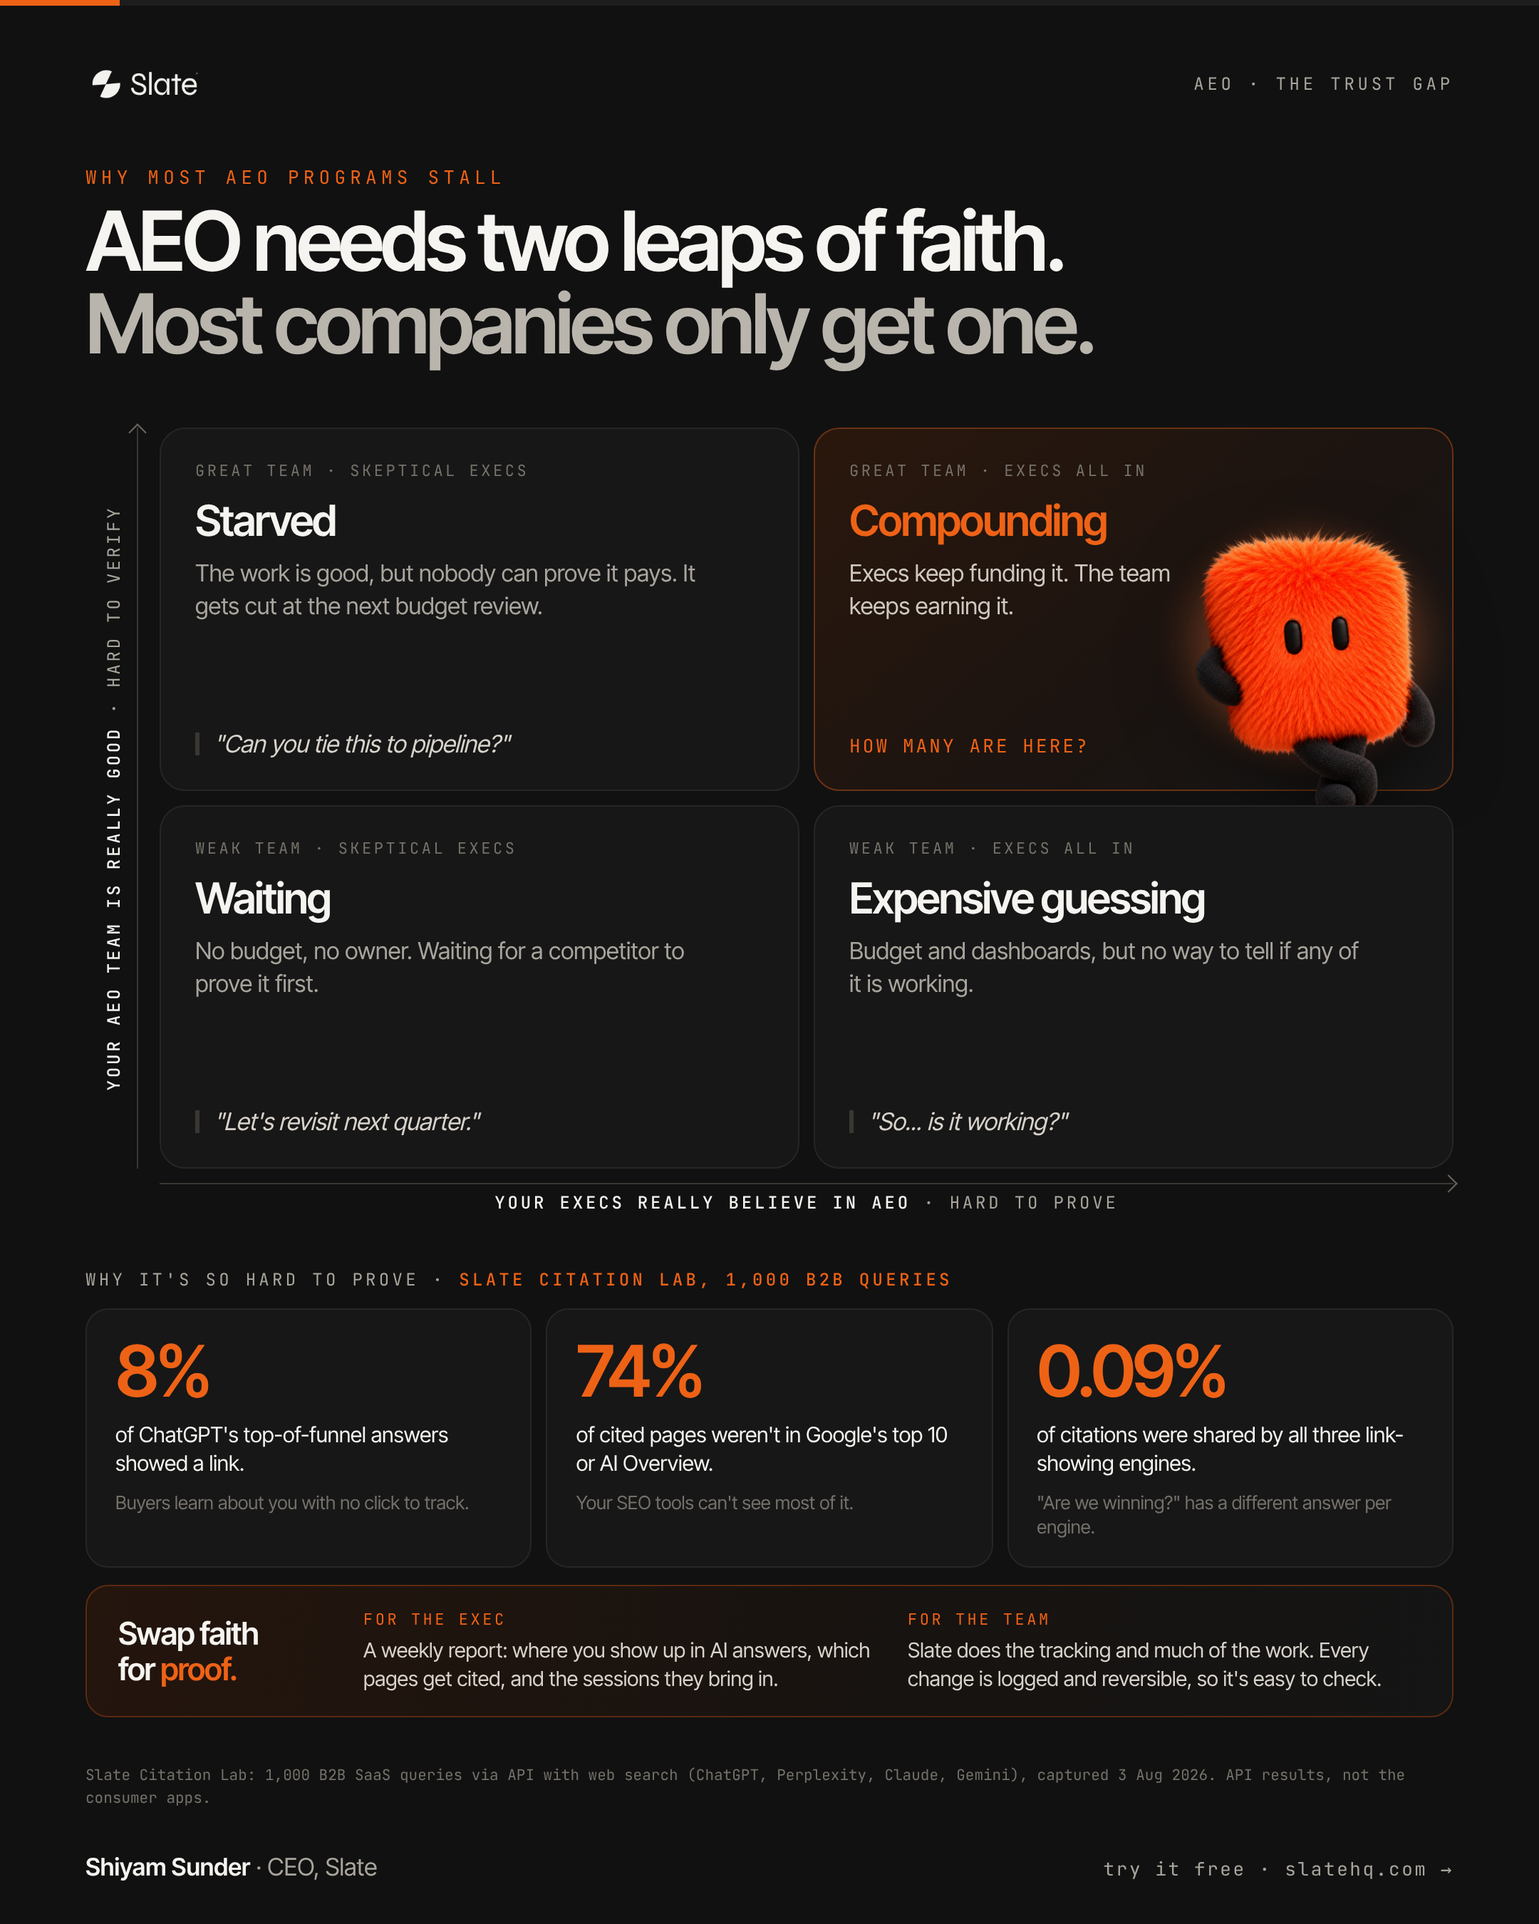
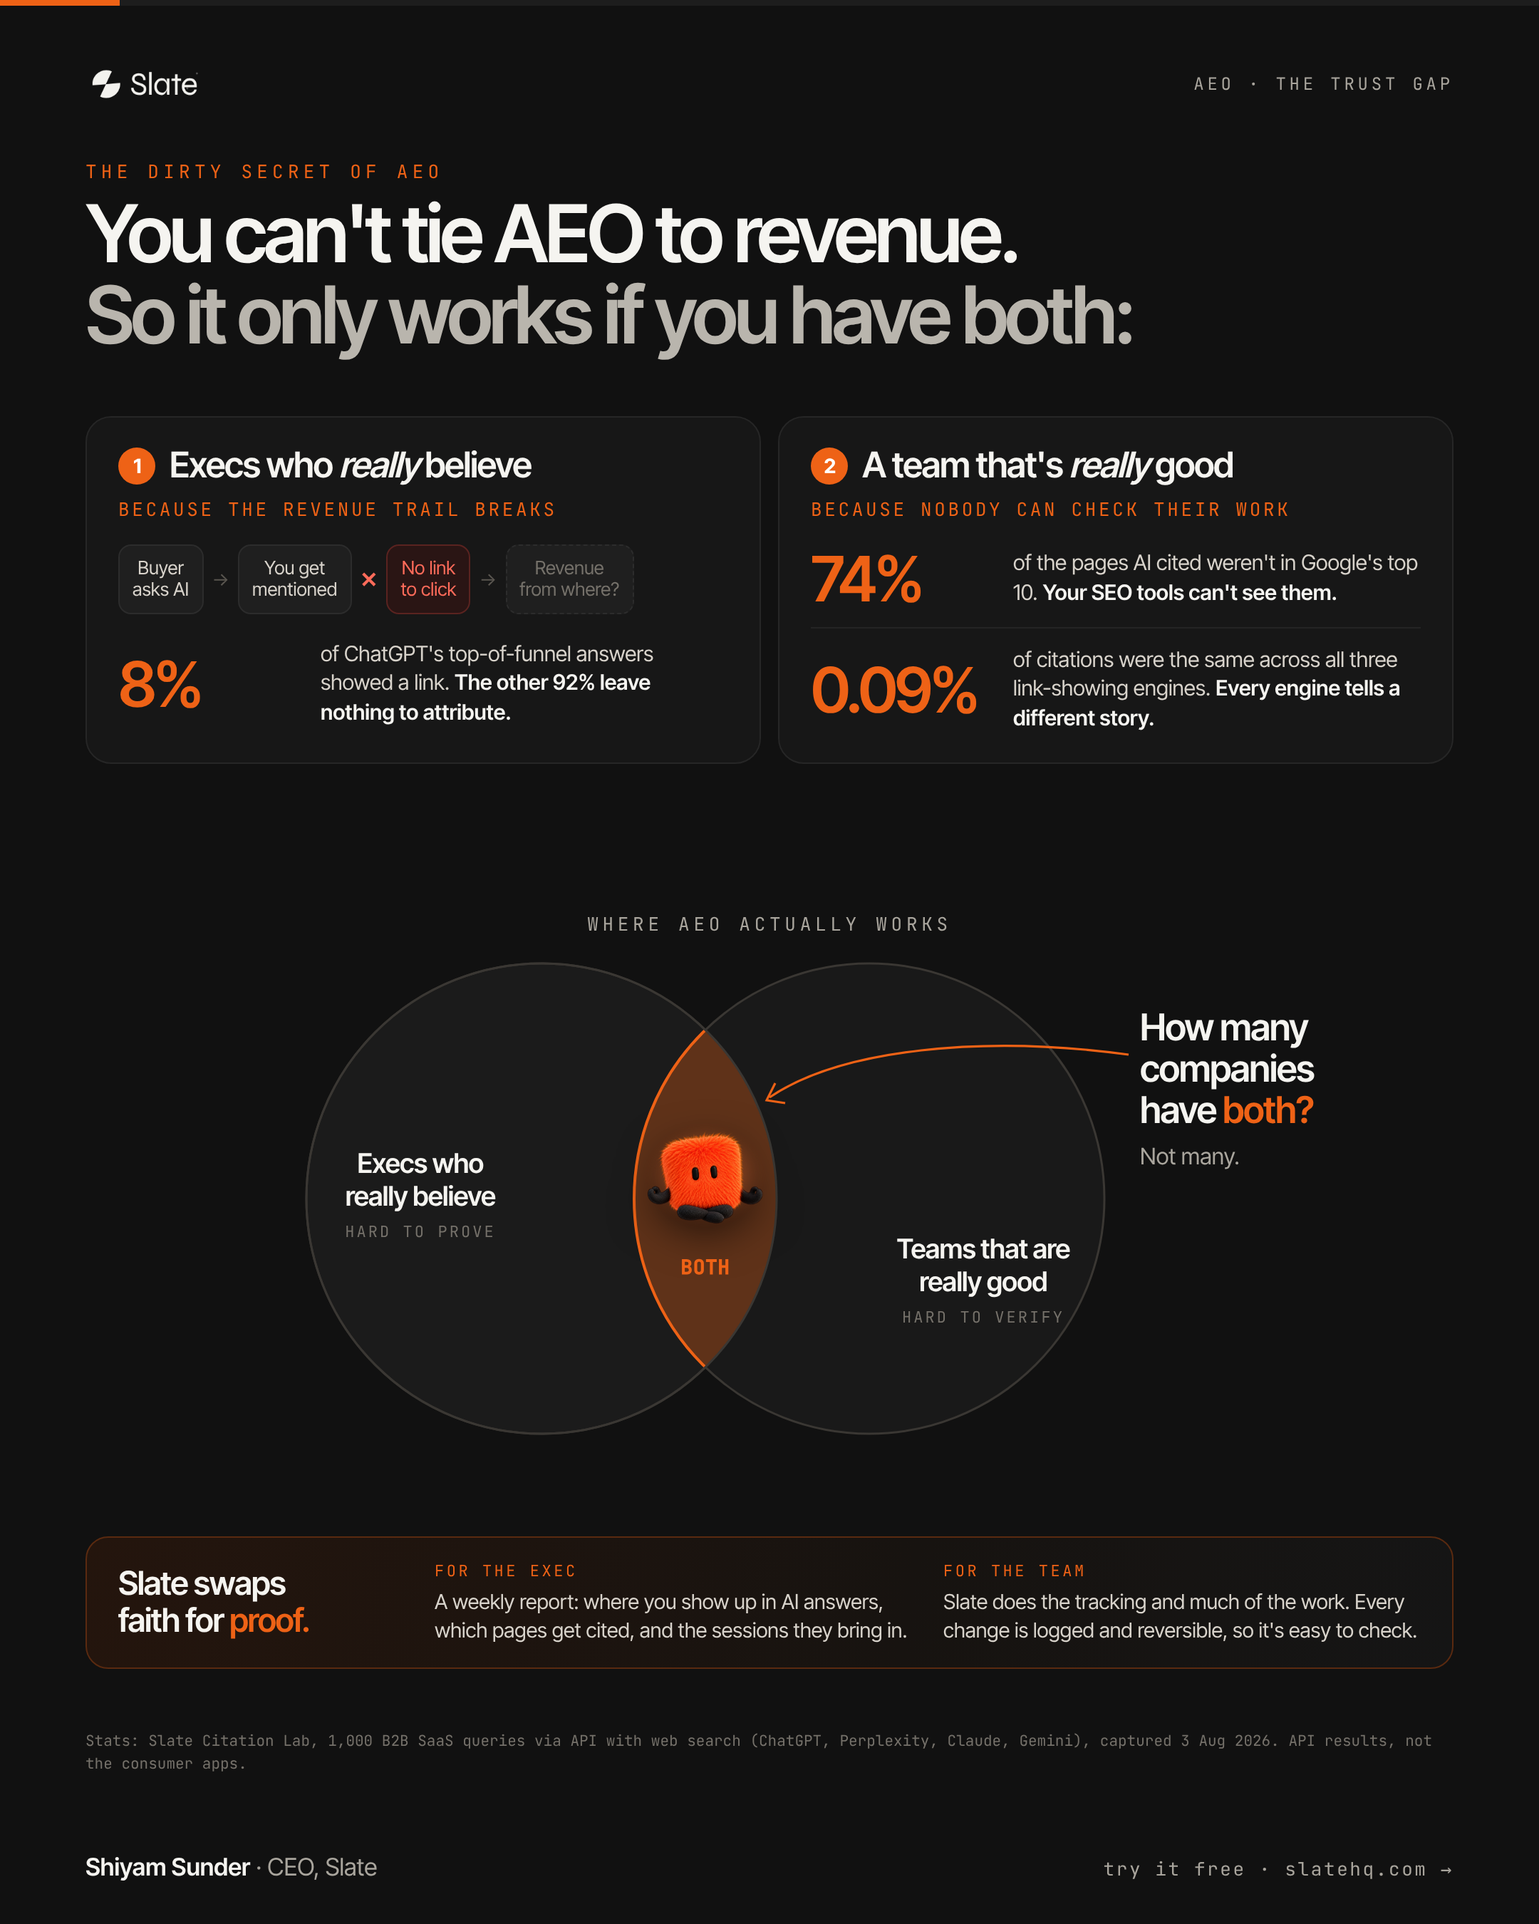
Redesign AEO trust-gap image to follow the post's argument
Replace the abstract 2x2 with a top-to-bottom story: can't tie AEO to
revenue, the two things you need (each backed by a Citation Lab stat),
a Venn of exec belief and team strength with the mascot in the small
overlap, and how Slate swaps faith for proof.

Claude-Session: https://claude.ai/code/session_017uCf1pmV8y2GsznBw541N3

diff --git a/aeo-trust/aeo.html b/aeo-trust/aeo.html
@@ -5,7 +5,7 @@
 <title>AEO Trust Gap</title>
 <link href="https://fonts.googleapis.com/css2?family=Inter+Tight:wght@400;500;600;700&family=JetBrains+Mono:wght@400;500&display=swap" rel="stylesheet">
 <style>
-  :root { --bg:#111111; --card:#171717; --line:#262626; --ink:#f5f4f0; --mute:#a9a59d; --dim:#75716a; --accent:#ee6216; }
+  :root { --bg:#111111; --card:#171717; --line:#262626; --ink:#f5f4f0; --mute:#a9a59d; --dim:#75716a; --accent:#ee6216; --red:#ff6b5a; }
   * { box-sizing: border-box; margin: 0; padding: 0; }
   html, body { width: 1080px; height: 1350px; background: var(--bg); }
   body { font-family: 'Inter Tight', system-ui, sans-serif; color: var(--ink); position: relative; overflow: hidden; }
@@ -17,51 +17,51 @@
   header img { height: 30px; }
   header .tag { font-size: 12px; letter-spacing: .2em; color: var(--mute); }
 
-  .eyebrow { position: absolute; top: 116px; left: 60px; font-size: 13px; letter-spacing: .24em; color: var(--accent); }
-  h1 { position: absolute; top: 140px; left: 60px; right: 60px; font-size: 58px; line-height: 1; font-weight: 600; letter-spacing: -0.045em; }
+  .eyebrow { position: absolute; top: 112px; left: 60px; font-size: 13px; letter-spacing: .24em; color: var(--accent); }
+  h1 { position: absolute; top: 136px; left: 60px; right: 60px; font-size: 56px; line-height: 1.02; font-weight: 600; letter-spacing: -0.045em; }
   h1 .grey { color: #b9b5ad; }
 
-  /* matrix */
-  .matrix { position: absolute; left: 112px; top: 300px; width: 908px; height: 520px; display: grid; grid-template-columns: 1fr 1fr; grid-template-rows: 1fr 1fr; gap: 10px; }
-  .q { background: var(--card); border: 1px solid var(--line); border-radius: 18px; padding: 22px 24px; position: relative; overflow: hidden; }
-  .q .k { font-size: 11px; letter-spacing: .16em; color: var(--dim); }
-  .q h3 { margin-top: 10px; font-size: 30px; font-weight: 600; letter-spacing: -0.035em; }
-  .q p { margin-top: 8px; font-size: 16.5px; line-height: 1.38; color: var(--mute); max-width: 360px; }
-  .q.win { background: linear-gradient(140deg, #2a170c 0%, #1b1411 60%, #171717 100%); border-color: #6a3214; overflow: visible; }
-  .q.win h3 { color: var(--accent); }
-  .q.win p { max-width: 230px; color: #cfc9c0; }
-  .q.win .ask { position: absolute; left: 24px; bottom: 22px; font-size: 13px; letter-spacing: .12em; color: var(--accent); }
-  .q .say { position: absolute; left: 24px; bottom: 22px; font-size: 17px; font-style: italic; color: #d8d3cb; letter-spacing: -0.01em; }
-  .q .say::before { content: ''; display: inline-block; width: 3px; height: 16px; background: #3a3733; margin-right: 10px; vertical-align: -2px; }
-  .lean { position: absolute; right: -6px; bottom: -14px; height: 214px; filter: drop-shadow(0 14px 22px rgba(0,0,0,.55)); }
+  /* two requirements */
+  .need { position: absolute; top: 292px; left: 60px; right: 60px; display: grid; grid-template-columns: 1fr 1fr; gap: 12px; }
+  .card { background: var(--card); border: 1px solid var(--line); border-radius: 18px; padding: 20px 22px 20px; }
+  .card .num { display: inline-flex; width: 26px; height: 26px; border-radius: 50%; background: var(--accent); color: #fff; font-size: 14px; font-weight: 700; align-items: center; justify-content: center; margin-right: 10px; vertical-align: 3px; }
+  .card h3 { font-size: 25px; font-weight: 600; letter-spacing: -0.03em; line-height: 1.1; }
+  .card h3 em { font-style: italic; }
+  .card .why { margin-top: 8px; font-size: 13px; letter-spacing: .14em; color: var(--accent); }
 
-  .yaxis { position: absolute; left: 60px; top: 300px; height: 520px; width: 40px; display: flex; align-items: center; justify-content: center; }
-  .yaxis span { transform: rotate(-90deg); white-space: nowrap; font-size: 12px; letter-spacing: .16em; color: var(--mute); }
-  .yaxis span b { color: var(--ink); font-weight: 500; }
-  .yline { position: absolute; left: 96px; top: 300px; height: 520px; width: 1px; background: #3a3733; }
-  .yline::before { content: ''; position: absolute; left: -4px; top: -1px; width: 8px; height: 8px; border-left: 1px solid #6b6760; border-top: 1px solid #6b6760; transform: rotate(45deg); }
-  .xaxis { position: absolute; left: 112px; top: 836px; width: 908px; display: flex; justify-content: center; font-size: 12px; letter-spacing: .16em; color: var(--mute); }
-  .xaxis b { color: var(--ink); font-weight: 500; }
-  .xline { position: absolute; left: 112px; top: 830px; width: 908px; height: 1px; background: #3a3733; }
-  .xline::after { content: ''; position: absolute; right: -1px; top: -4px; width: 8px; height: 8px; border-right: 1px solid #6b6760; border-top: 1px solid #6b6760; transform: rotate(45deg); }
+  .chain { margin-top: 16px; display: flex; align-items: center; gap: 6px; }
+  .chain .s { font-size: 13px; line-height: 1.2; padding: 8px 9px; border-radius: 9px; background: #1f1f1f; border: 1px solid #2c2c2c; color: #d8d3cb; text-align: center; }
+  .chain .s.x { border-color: #5a2320; background: #2a1514; color: var(--red); }
+  .chain .s.q { color: var(--dim); border-style: dashed; }
+  .chain .a { color: #5a5650; font-size: 13px; }
+  .chain .brk { color: var(--red); font-size: 15px; font-weight: 700; }
 
-  /* stats */
-  .slabel { position: absolute; left: 60px; top: 890px; font-size: 12px; letter-spacing: .18em; color: var(--mute); }
-  .slabel b { color: var(--accent); font-weight: 500; }
-  .stats { position: absolute; left: 60px; right: 60px; top: 918px; display: grid; grid-template-columns: repeat(3, 1fr); gap: 10px; }
-  .stat { background: var(--card); border: 1px solid var(--line); border-radius: 16px; padding: 18px 20px 18px; }
-  .stat .n { font-size: 50px; font-weight: 600; letter-spacing: -0.05em; line-height: 1; color: var(--accent); }
-  .stat .t { margin-top: 10px; font-size: 15px; line-height: 1.35; color: var(--ink); }
-  .stat .s { margin-top: 8px; font-size: 13px; line-height: 1.35; color: var(--dim); }
+  .stat { margin-top: 18px; display: grid; grid-template-columns: 128px 1fr; gap: 14px; align-items: center; }
+  .stat .n { font-size: 44px; font-weight: 600; letter-spacing: -0.05em; color: var(--accent); line-height: 1; }
+  .stat .t { font-size: 15px; line-height: 1.38; color: #d8d3cb; }
+  .stat .t b { color: var(--ink); font-weight: 600; }
+  .stat + .stat { margin-top: 12px; padding-top: 12px; border-top: 1px solid #242424; }
+
+  /* venn */
+  .vtitle { position: absolute; top: 640px; left: 0; right: 0; text-align: center; font-size: 13px; letter-spacing: .22em; color: var(--mute); }
+  .venn { position: absolute; top: 666px; left: 0; width: 1080px; height: 360px; }
+  .lab { position: absolute; font-size: 19px; font-weight: 600; letter-spacing: -0.02em; line-height: 1.2; text-align: center; width: 190px; }
+  .lab small { display: block; font-family: 'JetBrains Mono', monospace; font-size: 11px; letter-spacing: .14em; color: var(--dim); font-weight: 400; margin-top: 6px; }
+  .vm { position: absolute; left: 495px; top: 122px; width: 86px; transform: translateX(-50%); filter: drop-shadow(0 8px 14px rgba(0,0,0,.6)); }
+  .both { position: absolute; left: 495px; top: 214px; transform: translateX(-50%); font-size: 14px; font-weight: 700; color: var(--accent); letter-spacing: .02em; white-space: nowrap; }
+  .callout { position: absolute; left: 800px; top: 40px; width: 230px; }
+  .callout .q { font-size: 26px; font-weight: 600; letter-spacing: -0.03em; line-height: 1.12; }
+  .callout .q em { font-style: normal; color: var(--accent); }
+  .callout .a { margin-top: 8px; font-size: 16px; color: var(--mute); }
 
   /* fix */
-  .fix { position: absolute; left: 60px; right: 60px; top: 1112px; border-radius: 16px; border: 1px solid #5a2a10; background: linear-gradient(100deg, #24150d 0%, #171310 60%, #151515 100%); padding: 16px 22px; display: grid; grid-template-columns: 150px 1fr 1fr; column-gap: 22px; align-items: center; }
-  .fix .h { font-size: 22px; font-weight: 600; letter-spacing: -0.03em; line-height: 1.1; }
+  .fix { position: absolute; left: 60px; right: 60px; top: 1078px; border-radius: 16px; border: 1px solid #5a2a10; background: linear-gradient(100deg, #24150d 0%, #171310 60%, #151515 100%); padding: 16px 22px; display: grid; grid-template-columns: 200px 1fr 1fr; column-gap: 22px; align-items: center; }
+  .fix .h { font-size: 23px; font-weight: 600; letter-spacing: -0.03em; line-height: 1.1; }
   .fix .h em { font-style: normal; color: var(--accent); }
   .fix .c .k { font-size: 11px; letter-spacing: .16em; color: var(--accent); }
   .fix .c p { margin-top: 5px; font-size: 14.5px; line-height: 1.38; color: #d8d3cb; }
 
-  .note { position: absolute; left: 60px; right: 60px; top: 1238px; font-size: 10.5px; line-height: 1.5; color: var(--dim); }
+  .note { position: absolute; left: 60px; right: 60px; top: 1214px; font-size: 10.5px; line-height: 1.5; color: var(--dim); }
   footer { position: absolute; left: 60px; right: 60px; bottom: 30px; display: flex; justify-content: space-between; align-items: baseline; font-size: 17px; }
   footer b { font-weight: 600; } footer span { color: var(--mute); }
   footer .mono { font-size: 13px; color: var(--mute); letter-spacing: .1em; }
@@ -74,57 +74,56 @@
     <div class="tag mono">AEO · THE TRUST GAP</div>
   </header>
 
-  <div class="eyebrow mono">WHY MOST AEO PROGRAMS STALL</div>
-  <h1>AEO needs two leaps of faith.<br><span class="grey">Most companies only get one.</span></h1>
+  <div class="eyebrow mono">THE DIRTY SECRET OF AEO</div>
+  <h1>You can't tie AEO to revenue.<br><span class="grey">So it only works if you have both:</span></h1>
 
-  <div class="yaxis"><span class="mono"><b>YOUR AEO TEAM IS REALLY GOOD</b> · HARD TO VERIFY</span></div>
-  <div class="yline"></div>
+  <div class="need">
+    <div class="card">
+      <h3><span class="num">1</span>Execs who <em>really</em> believe</h3>
+      <div class="why mono">BECAUSE THE REVENUE TRAIL BREAKS</div>
+      <div class="chain">
+        <div class="s">Buyer<br>asks AI</div><span class="a">→</span>
+        <div class="s">You get<br>mentioned</div><span class="brk">✕</span>
+        <div class="s x">No link<br>to click</div><span class="a">→</span>
+        <div class="s q">Revenue<br>from where?</div>
+      </div>
+      <div class="stat"><div class="n">8%</div><div class="t">of ChatGPT's top-of-funnel answers showed a link. <b>The other 92% leave nothing to attribute.</b></div></div>
+    </div>
 
-  <div class="matrix">
-    <div class="q">
-      <div class="k mono">GREAT TEAM · SKEPTICAL EXECS</div>
-      <h3>Starved</h3>
-      <p>The work is good, but nobody can prove it pays. It gets cut at the next budget review.</p>
-      <div class="say">"Can you tie this to pipeline?"</div>
-    </div>
-    <div class="q win">
-      <div class="k mono">GREAT TEAM · EXECS ALL IN</div>
-      <h3>Compounding</h3>
-      <p>Execs keep funding it. The team keeps earning it.</p>
-      <div class="ask mono">HOW MANY ARE HERE?</div>
-      <img class="lean" src="mascot-lean.png" alt="Slate mascot">
-    </div>
-    <div class="q">
-      <div class="k mono">WEAK TEAM · SKEPTICAL EXECS</div>
-      <h3>Waiting</h3>
-      <p>No budget, no owner. Waiting for a competitor to prove it first.</p>
-      <div class="say">"Let's revisit next quarter."</div>
-    </div>
-    <div class="q">
-      <div class="k mono">WEAK TEAM · EXECS ALL IN</div>
-      <h3>Expensive guessing</h3>
-      <p>Budget and dashboards, but no way to tell if any of it is working.</p>
-      <div class="say">"So... is it working?"</div>
+    <div class="card">
+      <h3><span class="num">2</span>A team that's <em>really</em> good</h3>
+      <div class="why mono">BECAUSE NOBODY CAN CHECK THEIR WORK</div>
+      <div class="stat"><div class="n">74%</div><div class="t">of the pages AI cited weren't in Google's top 10. <b>Your SEO tools can't see them.</b></div></div>
+      <div class="stat"><div class="n">0.09%</div><div class="t">of citations were the same across all three link-showing engines. <b>Every engine tells a different story.</b></div></div>
     </div>
   </div>
 
-  <div class="xline"></div>
-  <div class="xaxis mono"><span><b>YOUR EXECS REALLY BELIEVE IN AEO</b> · HARD TO PROVE</span></div>
-
-  <div class="slabel mono">WHY IT'S SO HARD TO PROVE · <b>SLATE CITATION LAB, 1,000 B2B QUERIES</b></div>
-  <div class="stats">
-    <div class="stat"><div class="n">8%</div><div class="t">of ChatGPT's top-of-funnel answers showed a link.</div><div class="s">Buyers learn about you with no click to track.</div></div>
-    <div class="stat"><div class="n">74%</div><div class="t">of cited pages weren't in Google's top 10 or AI Overview.</div><div class="s">Your SEO tools can't see most of it.</div></div>
-    <div class="stat"><div class="n">0.09%</div><div class="t">of citations were shared by all three link-showing engines.</div><div class="s">"Are we winning?" has a different answer per engine.</div></div>
+  <div class="vtitle mono">WHERE AEO ACTUALLY WORKS</div>
+  <div class="venn">
+    <svg width="1080" height="360" viewBox="0 0 1080 360" style="position:absolute;left:0;top:0">
+      <defs><clipPath id="cl"><circle cx="380" cy="175" r="165"/></clipPath></defs>
+      <circle cx="380" cy="175" r="165" fill="#1b1b1b" stroke="#3a3733" stroke-width="1.5"/>
+      <circle cx="610" cy="175" r="165" fill="#1b1b1b" fill-opacity="0.85" stroke="#3a3733" stroke-width="1.5"/>
+      <circle cx="610" cy="175" r="165" fill="#ee6216" fill-opacity="0.32" clip-path="url(#cl)" stroke="none"/>
+      <circle cx="610" cy="175" r="165" fill="none" stroke="#ee6216" stroke-width="2" clip-path="url(#cl)"/>
+      <circle cx="380" cy="175" r="165" fill="none" stroke="#3a3733" stroke-width="1.5"/>
+      <path d="M 792 74 C 690 60, 590 70, 540 104" stroke="#ee6216" stroke-width="1.6" fill="none"/>
+      <path d="M 544 94 L 538 106 L 551 108" stroke="#ee6216" stroke-width="1.6" fill="none"/>
+    </svg>
+    <div class="lab" style="left:200px; top:140px;">Execs who<br>really believe<small>HARD TO PROVE</small></div>
+    <div class="lab" style="left:600px; top:200px; width:180px;">Teams that are<br>really good<small>HARD TO VERIFY</small></div>
+    <img class="vm" src="mascot-float.png" alt="Slate mascot">
+    <div class="both mono">BOTH</div>
+    <div class="callout"><div class="q">How many companies<br>have <em>both?</em></div><div class="a">Not many.</div></div>
   </div>
 
   <div class="fix">
-    <div class="h">Swap faith<br>for <em>proof.</em></div>
+    <div class="h">Slate swaps<br>faith for <em>proof.</em></div>
     <div class="c"><div class="k mono">FOR THE EXEC</div><p>A weekly report: where you show up in AI answers, which pages get cited, and the sessions they bring in.</p></div>
     <div class="c"><div class="k mono">FOR THE TEAM</div><p>Slate does the tracking and much of the work. Every change is logged and reversible, so it's easy to check.</p></div>
   </div>
 
-  <div class="note mono">Slate Citation Lab: 1,000 B2B SaaS queries via API with web search (ChatGPT, Perplexity, Claude, Gemini), captured 3 Aug 2026. API results, not the consumer apps.</div>
+  <div class="note mono">Stats: Slate Citation Lab, 1,000 B2B SaaS queries via API with web search (ChatGPT, Perplexity, Claude, Gemini), captured 3 Aug 2026. API results, not the consumer apps.</div>
 
   <footer>
     <div><b>Shiyam Sunder</b> <span>· CEO, Slate</span></div>

diff --git a/aeo-trust/post.md b/aeo-trust/post.md
@@ -1,6 +1,6 @@
 # Slate: "AEO needs two leaps of faith" LinkedIn post
 
-**Image:** `aeo-trust-gap.png` (4:5, 2160×2700). Source: `aeo.html`. The mascot is rendered from Slate's own Lottie file (slatehq.com/mascot/fuzzy-lean.json).
+**Image:** `aeo-trust-gap.png` (4:5, 2160×2700). Source: `aeo.html`. Reads top to bottom like the post: the claim, the two things you need (each backed by a Citation Lab stat), a Venn showing how few companies have both, and how Slate swaps faith for proof. The mascot is Slate's own (slatehq.com/mascot/).
 **Data:** the three stats come from the Slate Citation Lab study (`../citation-lab/`): 1,000 B2B SaaS queries via API, captured 3 Aug 2026.
 
 ---
